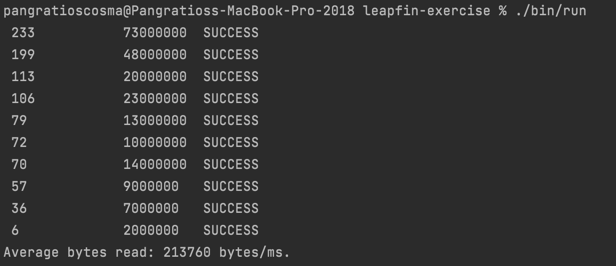
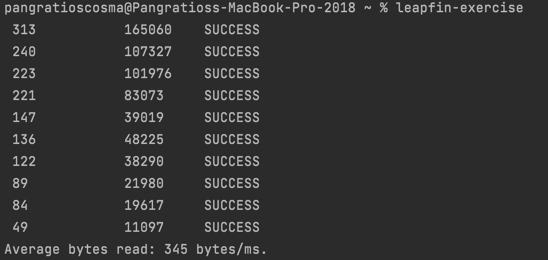
update readme and screenshot

diff --git a/README.md b/README.md
@@ -62,6 +62,9 @@ cd leapfin-exercise
 # Install dependencies
 npm install
 
+# Transpile Typescript to Javascript for better performance (optional)
+npm run prepack
+
 # Run the program
 ./bin/run -h
 ```
@@ -72,7 +75,7 @@ npm install
 
 ## Implementation Notes:
 
-- The program is written in Nodejs, using Typescript. I chose Typescript to write strongly typed, better maintainable code. If you use the last installation option to run the program (clone from github), there will be a slight performance hit because the Typescript code is transpiled to Javascript at runtime. If you run the program from the npm installation or use the pre-built executable, it will execute Javascript directly.
+- The program is written in Nodejs, using Typescript. I chose Typescript to write strongly typed, better maintainable code.
 - I used [oclif](https://oclif.io/) to create generate the boilerplate for a cli program. It comes with a framework to parse arguments, write tests and package to single file executables.
 - I chose to use the native [`worker_threads` module from nodejs](https://nodejs.org/api/worker_threads.html) as my workers to do the processing (substring search). An alternative would be to fork processes, but that would be less efficient as they have a higher memory footprint and will take more time to start.
 - I spent some time looking for efficient algorithms to do substring search, however I was not able to match the performance of `String.indexOf()` in Nodejs. I also read [here](https://harrymoreno.com/2015/08/18/substring-searching-in-javascript.html) that Google’s V8 engine which runs nodejs has a very fast implementation of `String.indexOf()` (written in C++). I wrote some benchmark tests (found in `./benchmark/search-algorithm.test.ts`) just to compare with the [Boyer-Moore algorithm](https://en.wikipedia.org/wiki/Boyer%E2%80%93Moore_string-search_algorithm) javascript implementation I used.
